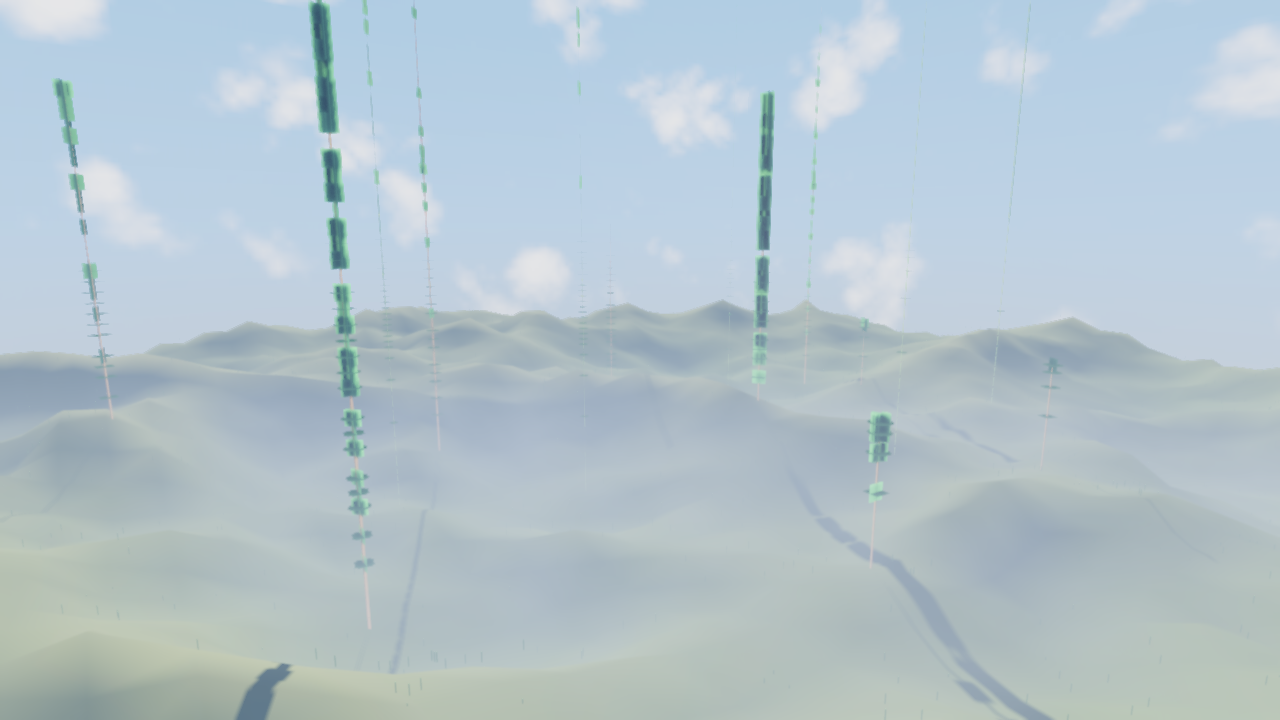
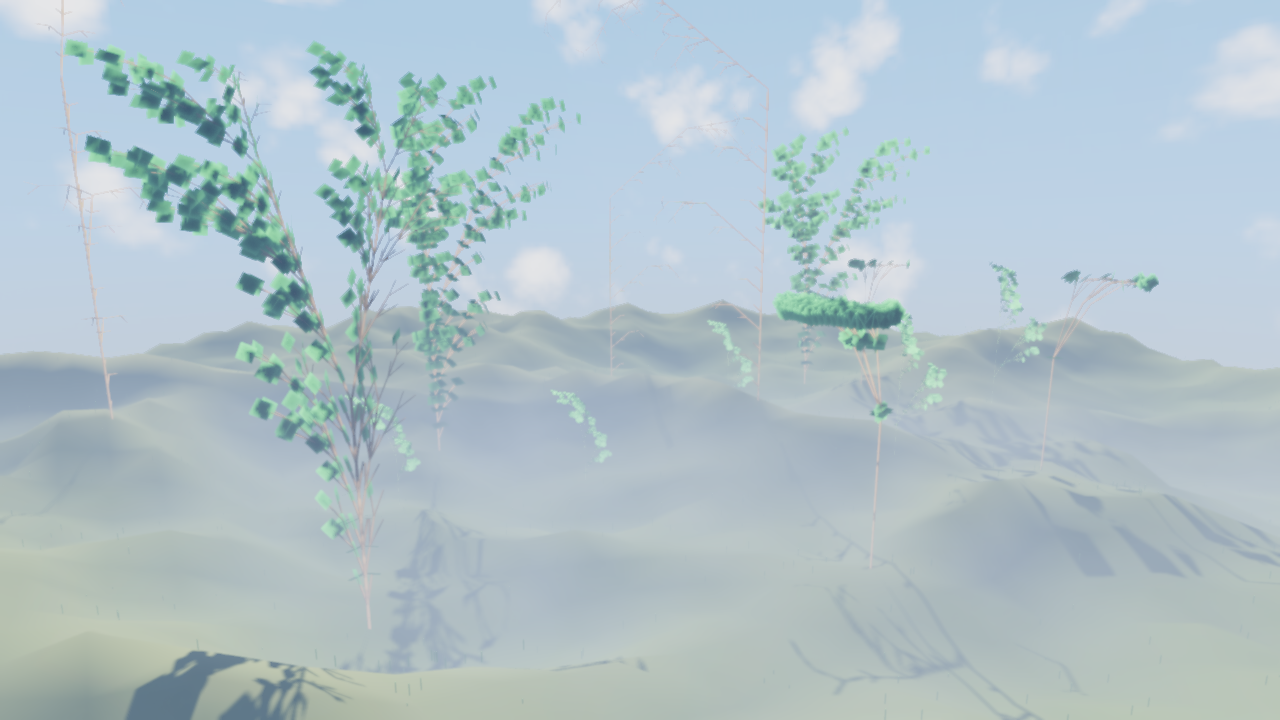
G26 fix: L-system presets now branch in 3D (roll + pitch), not vertical sticks
- presets makeTree(0..2)/makeFern/makeBush use '&' pitch combined with '+/-' roll
  (roll alone never changes the drawing direction with heading +Y)
- regression test testPresetsSpread3D: every preset spreads horizontally > 30% of height
- lsystem.hpp + tutorials en/de document the roll-vs-pitch pitfall with a working example rule
- refs g26_lsystem_{forest,tree}.png re-rendered (crown closeup camera reframed), compressed

diff --git a/src/procedural/lsystem.cpp b/src/procedural/lsystem.cpp
@@ -183,25 +183,33 @@ LSystem LSystem::makeTree(int variant, unsigned seedJitter) {
     s.radius0 = 0.11f;
     s.radiusTaper = 0.7f;
     const float jitter = 1.f + static_cast<float>(seedJitter % 5u) * 0.03f;
+    // NOTE: the turtle grows along +Y, and '+/-' only ROLL around the heading — a rule that
+    // uses just '+/-' draws every segment straight up (a stick). Real 3D branches need a
+    // pitch ('&') or yaw ('\\') per branch, with '+/-' rolls in front to vary the azimuth.
     switch (variant % 3) {
-        case 0: // classic branching tree
+        case 0: // broadleaf: trunk + two sub-branches per segment, rolled to varying azimuths
             s.axiom = "F";
-            s.rules = {{'F', "FF+[+F-F-FL]-[-F+F+FL]"}};
+            s.rules = {{'F', "FF+[+&F-FL]-[-&F+FL]"}};
             s.angleDeg = 22.5f * jitter;
             break;
-        case 1: // narrow conifer-like
+        case 1: // narrow conifer: whorls of two branches pitched ~45 deg off vertical
             s.axiom = "F";
-            s.rules = {{'F', "F[+F]F[-F][FL]"}};
-            s.angleDeg = 28.f * jitter;
+            s.rules = {{'F', "FF[&+F][&-F]"}};
+            s.iterations = 5;
+            s.angleDeg = 45.f * jitter;
             s.step = 0.7f;
             s.radius0 = 0.07f;
+            s.radiusTaper = 0.75f;
             break;
-        default: // Barnsley-style tree on X
+        default: // gnarled Barnsley-style tree on X, pitched branches in 3D
             s.axiom = "X";
-            s.rules = {{'X', "F[+X]L[-X]LX"}, {'F', "FF"}};
+            s.rules = {{'X', "F[+&X]L[-&X]&LX"}, {'F', "FF"}};
+            s.iterations = 5;
             s.angleDeg = 25.f * jitter;
             s.step = 0.55f;
             s.radius0 = 0.06f;
+            s.radiusTaper = 0.72f;
+            s.leafSize = 0.45f;
             break;
     }
     return s;
@@ -210,24 +218,25 @@ LSystem LSystem::makeTree(int variant, unsigned seedJitter) {
 LSystem LSystem::makeFern() {
     LSystem s;
     s.axiom = "X";
-    s.rules = {{'X', "F+[[X]-X]L-F[-FX]+XL"}, {'F', "FF"}};
+    // classic fern frond, with '&' pitches so the frond arches sideways instead of stacking up
+    s.rules = {{'X', "F[+&[X]-X]L-F[-&FX]+X"}, {'F', "FF"}};
     s.iterations = 5;
     s.angleDeg = 25.f;
-    s.step = 0.32f;
-    s.radius0 = 0.025f;
+    s.step = 0.16f;
+    s.radius0 = 0.02f;
     s.radiusTaper = 0.8f;
     s.sides = 4;
     s.leaves = true;
-    s.leafSize = 0.22f;
+    s.leafSize = 0.18f;
     return s;
 }
 
 LSystem LSystem::makeBush() {
     LSystem s;
     s.axiom = "F";
-    s.rules = {{'F', "FF+[+F-F-FL]-[-F+F+FL]"}};
+    s.rules = {{'F', "FF[+&F&F-L][-&F&FL]"}};
     s.iterations = 3;
-    s.angleDeg = 32.f;
+    s.angleDeg = 35.f;
     s.step = 0.5f;
     s.radius0 = 0.06f;
     s.radiusTaper = 0.6f;

diff --git a/examples/lsystem_screenshot/main.cpp b/examples/lsystem_screenshot/main.cpp
@@ -213,7 +213,7 @@ int main(int argc, char** argv) {
         fernMeshes.push_back(std::make_unique<fuhgl::render::Mesh>());
         fernMeshes.back()->setMeshData(md);
         scene::Node& n = scene.root().createChild("fern" + std::to_string(i));
-        const float s = 1.2f + 0.3f * (i % 3);
+        const float s = 0.7f + 0.2f * (i % 3);
         n.translation = {fernSpots[i].x, tc.heightAt(fernSpots[i].x, fernSpots[i].y), fernSpots[i].y};
         n.scale = {s, s, s};
         scene::MeshEntry& e = n.attach<scene::MeshComponent>().addMesh(fernMeshes.back().get());
@@ -291,10 +291,10 @@ int main(int argc, char** argv) {
     }
     std::fprintf(stderr, "lsystem_screenshot: wrote %s\n", forestPath.c_str());
 
-    // shot 2: closeup of tree0 (variant 0) with fern
-    cam.position = {treeSpots[0].x + 7.f, tc.heightAt(treeSpots[0].x, treeSpots[0].y) + 3.2f,
-                    treeSpots[0].y + 7.f};
-    aimAt(cam, {treeSpots[0].x, tc.heightAt(treeSpots[0].x, treeSpots[0].y) + 3.5f, treeSpots[0].y});
+    // shot 2: closeup of tree0 (variant 0) — camera pulled back and raised to frame the crown
+    cam.position = {treeSpots[0].x + 11.f, tc.heightAt(treeSpots[0].x, treeSpots[0].y) + 14.f,
+                    treeSpots[0].y + 11.f};
+    aimAt(cam, {treeSpots[0].x, tc.heightAt(treeSpots[0].x, treeSpots[0].y) + 13.f, treeSpots[0].y});
     const std::string treePath = args.prefix + "_tree.png";
     if (!renderToPng(scene, cam, renderer, &env, args.frames, args.width, args.height, treePath)) {
         std::fprintf(stderr, "lsystem_screenshot: failed to write %s\n", treePath.c_str());

diff --git a/tests/test_procedural_lsystem.cpp b/tests/test_procedural_lsystem.cpp
@@ -76,6 +76,25 @@ void testGenerate() {
     CHECK_NEAR(md.vertices[6], 0.3f, 1e-6f);
 }
 
+void testPresetsSpread3D() {
+    // Regression: rules that only roll ('+/-') draw every segment straight up (a stick);
+    // every preset must spread horizontally by a decent fraction of its height.
+    for (const LSystem& s : {LSystem::makeTree(0), LSystem::makeTree(1), LSystem::makeTree(2),
+                             LSystem::makeFern(), LSystem::makeBush()}) {
+        const fuhgl::render::MeshData md = s.generate();
+        fuhgl::math::Vec3 mn{1e9f, 1e9f, 1e9f}, mx{-1e9f, -1e9f, -1e9f};
+        for (std::uint32_t i = 0; i < md.vertexCount(); ++i) {
+            const float* v = &md.vertices[i * 11];
+            mn = {std::fmin(mn.x, v[0]), std::fmin(mn.y, v[1]), std::fmin(mn.z, v[2])};
+            mx = {std::fmax(mx.x, v[0]), std::fmax(mx.y, v[1]), std::fmax(mx.z, v[2])};
+        }
+        const float height = mx.y - mn.y;
+        const float width = std::fmax(mx.x - mn.x, mx.z - mn.z);
+        CHECK(height > 1.f);
+        CHECK(width > 0.3f * height); // real branches, not a vertical stick
+    }
+}
+
 void testPresetsDiffer() {
     const auto a = LSystem::makeTree(0).generate();
     const auto b = LSystem::makeTree(1).generate();
@@ -101,5 +120,6 @@ void runProceduralLsystemTests() {
     testDerive();
     testPresetBrackets();
     testGenerate();
+    testPresetsSpread3D();
     testPresetsDiffer();
 }

diff --git a/include/fuhglgraphics/procedural/lsystem.hpp b/include/fuhglgraphics/procedural/lsystem.hpp
@@ -17,7 +17,9 @@ namespace fuhglgraphics::procedural {
 /// @brief One L-system: axiom, production rules, iterations + turtle parameters.
 /// Turtle symbols: F = draw forward (cylinder), f = move forward, + - = roll around the
 /// heading, & ^ = pitch, \\ | = yaw, [ = push frame (branch, radius tapers), ] = pop,
-/// L = leaf quad pair at the current frame.
+/// L = leaf quad pair at the current frame. The turtle starts with heading +Y, so roll
+/// (+ -) alone never changes the drawing direction — combine it with pitch (& ^) or yaw
+/// (\\ |) to get real 3D branches (see the presets below).
 struct LSystem {
     std::string axiom;
     std::vector<std::pair<char, std::string>> rules; ///< production rules (first match wins)

diff --git a/docs/de/tutorials/g26_lsystem.md b/docs/de/tutorials/g26_lsystem.md
@@ -18,7 +18,7 @@ fuhglgraphics::procedural::LSystem tree = fuhglgraphics::procedural::LSystem::ma
 // oder individuell: Axiom + Regeln + Turtle-Parameter
 fuhglgraphics::procedural::LSystem custom;
 custom.axiom = "F";
-custom.rules = {{'F', "FF+[+F-F-FL]-[-F+F+FL]"}};  // L = Blatt-Quad an der Spitze
+custom.rules = {{'F', "FF+[+&F-FL]-[-&F+FL]"}};  // L = Blatt-Quad an der Spitze
 custom.iterations = 4;
 custom.angleDeg = 22.5f;   // Drehwinkel für + - & ^ \ |
 custom.step = 0.9f;        // Segmentlänge von F/f
@@ -42,6 +42,12 @@ n.attach<scene::MeshComponent>().addMesh(&mesh);
 Turtle-Symbole: `F` vorwärts zeichnen (Zylinder, Radius verjüngt sich mit `[`-Tiefe), `f` bewegen,
 `+`/`-` rollen um die Richtung, `&`/`^` nicken, `\`/`|` gieren, `[`/`]` Frame pushen/poppen
 (neuer Ast), `L` zwei gekreuzte Blatt-Quads. Unbekannte Symbole werden ignoriert.
+
+> Die Turtle startet mit Richtung +Y (oben), und reines Rollen (`+`/`-`) ändert die
+> Zeichenrichtung nie — eine Regel nur mit `+`/`-` zeichnet jedes Segment senkrecht nach oben
+> und sieht aus wie ein Stock. Roll mit Nicken (`&`/`^`) oder Gieren (`\\`/`|`) kombinieren
+> für echte 3D-Äste, z. B. `FF+[+&F-FL]-[-&F+FL]`: das Roll setzt das Azimut des Astes, `&`
+> kippt ihn vom Stamm weg.
 
 ## Demo + Ergebnis
 

diff --git a/docs/en/tutorials/g26_lsystem.md b/docs/en/tutorials/g26_lsystem.md
@@ -18,7 +18,7 @@ fuhglgraphics::procedural::LSystem tree = fuhglgraphics::procedural::LSystem::ma
 // or custom: axiom + rules + turtle parameters
 fuhglgraphics::procedural::LSystem custom;
 custom.axiom = "F";
-custom.rules = {{'F', "FF+[+F-F-FL]-[-F+F+FL]"}};  // L = leaf quad at the tip
+custom.rules = {{'F', "FF+[+&F-FL]-[-&F+FL]"}};  // L = leaf quad at the tip
 custom.iterations = 4;
 custom.angleDeg = 22.5f;   // + - & ^ \ | turn angle
 custom.step = 0.9f;        // F/f segment length
@@ -42,6 +42,11 @@ n.attach<scene::MeshComponent>().addMesh(&mesh);
 Turtle symbols: `F` draw forward (cylinder, radius tapers with `[` depth), `f` move,
 `+`/`-` roll around the heading, `&`/`^` pitch, `\`/`|` yaw, `[`/`]` push/pop the frame
 (new branch), `L` two crossed leaf quads. Unknown symbols are ignored.
+
+> The turtle starts with heading +Y (up), and roll (`+`/`-`) alone never changes the drawing
+> direction — a rule with only `+`/`-` draws every segment straight up and looks like a
+> stick. Combine roll with pitch (`&`/`^`) or yaw (`\\`/`|`) for real 3D branches, e.g.
+> `FF+[+&F-FL]-[-&F+FL]`: the roll sets the branch azimuth, `&` tilts it off the trunk.
 
 ## Demo + result
 

diff --git a/CHANGELOG.md b/CHANGELOG.md
@@ -7,6 +7,16 @@ All notable changes to FuhGlGraphics are documented here. The format follows
 
 ## [Unreleased]
 
+### Fixed
+
+- **G26 L-system presets** drew vertical sticks instead of trees: the rules used only `+`/`-`,
+  which in the 3D turtle is a roll around the heading and never changes the drawing direction
+  (heading starts at +Y). Presets (`makeTree` variants 0-2, `makeFern`, `makeBush`) now combine
+  roll with pitch (`&`) — e.g. `F -> FF+[+&F-FL]-[-&F+FL]` — so branches spread in 3D.
+  Regression test `testPresetsSpread3D` asserts every preset's horizontal spread > 30% of its
+  height. Reference screenshots `docs/images/g26_lsystem_*.png` re-rendered (crown closeup
+  camera reframed); tutorials en/de document the roll-vs-pitch pitfall.
+
 ### Changed
 
 - Re-compressed all 86 reference screenshots in `docs/images/` losslessly with
